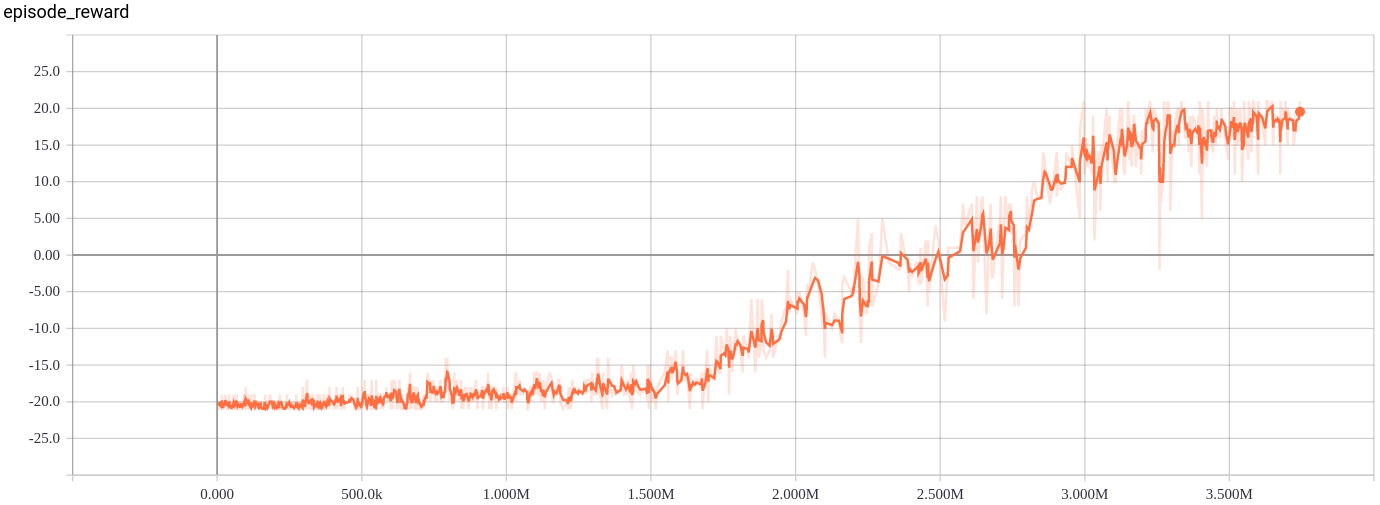
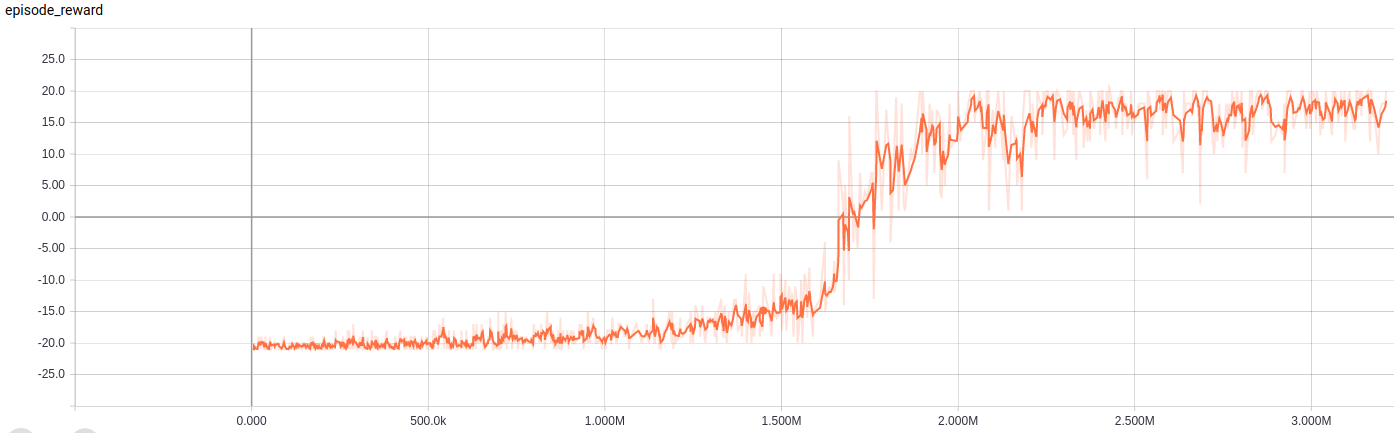
upd: pong app wrt da3c performance with delay compensation

diff --git a/pong/README.md b/pong/README.md
@@ -1,8 +1,12 @@
 [Back to contents](../README.md#contents)
 
-[Pong](https://gym.openai.com/envs/Pong-v0/) is an OpenAI Gym environment. This is classic Atari 2660 game. The observation is RGB image of screen. The action is discrete from [0, 5] range.
+[Pong](https://gym.openai.com/envs/Pong-v0/) is an OpenAI Gym environment. This is classic Atari 2660 game.
+The observation is RGB image of screen. The action is discrete from [0, 5] range.
 
 ## <a name="da3c"></a>DA3C
-We run DA3C with LSTM to resolve Pong. Navigate to this directory and start `relaax run -c da3c.yaml -n 8`. It takes about five hours to converge. Wait for 3.5M steps.  Use `tensorboard --logdir logs/metrics` to follow progress. Episode reward will be about 20.
+We run DA3C with LSTM to resolve Pong. Navigate to this directory and start `relaax run -c da3c.yaml -n 4`.
+It takes about a couple of hours to converge. Wait for 2.0M steps.
+Use `tensorboard --logdir logs/metrics` to follow progress.
+Episode reward will be about 20.
 
 ![img](../resources/pong_da3c.png)
